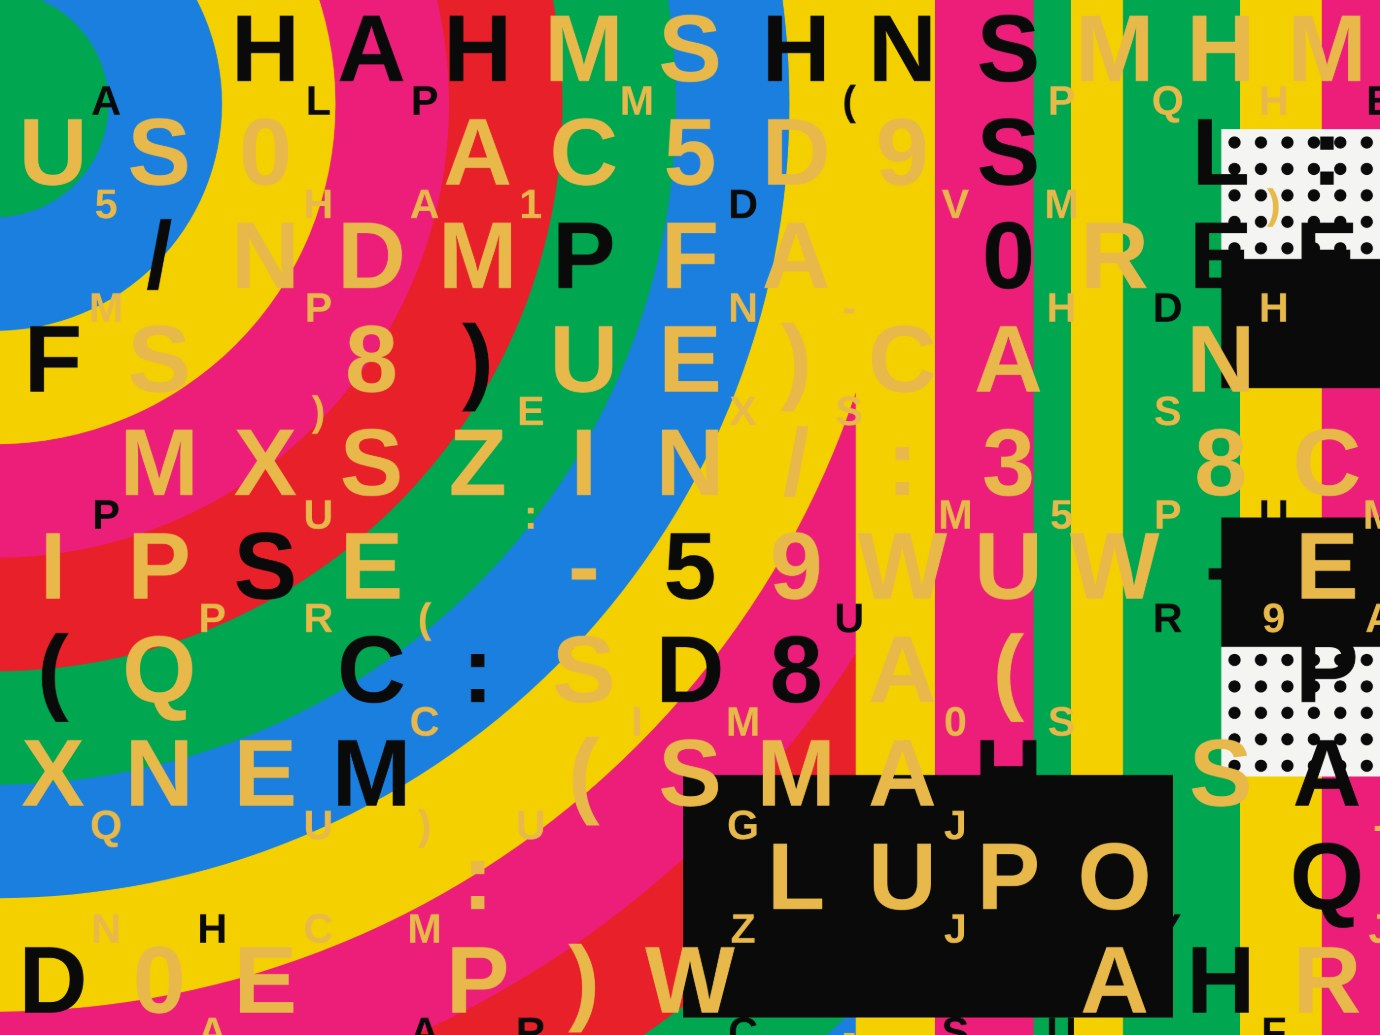
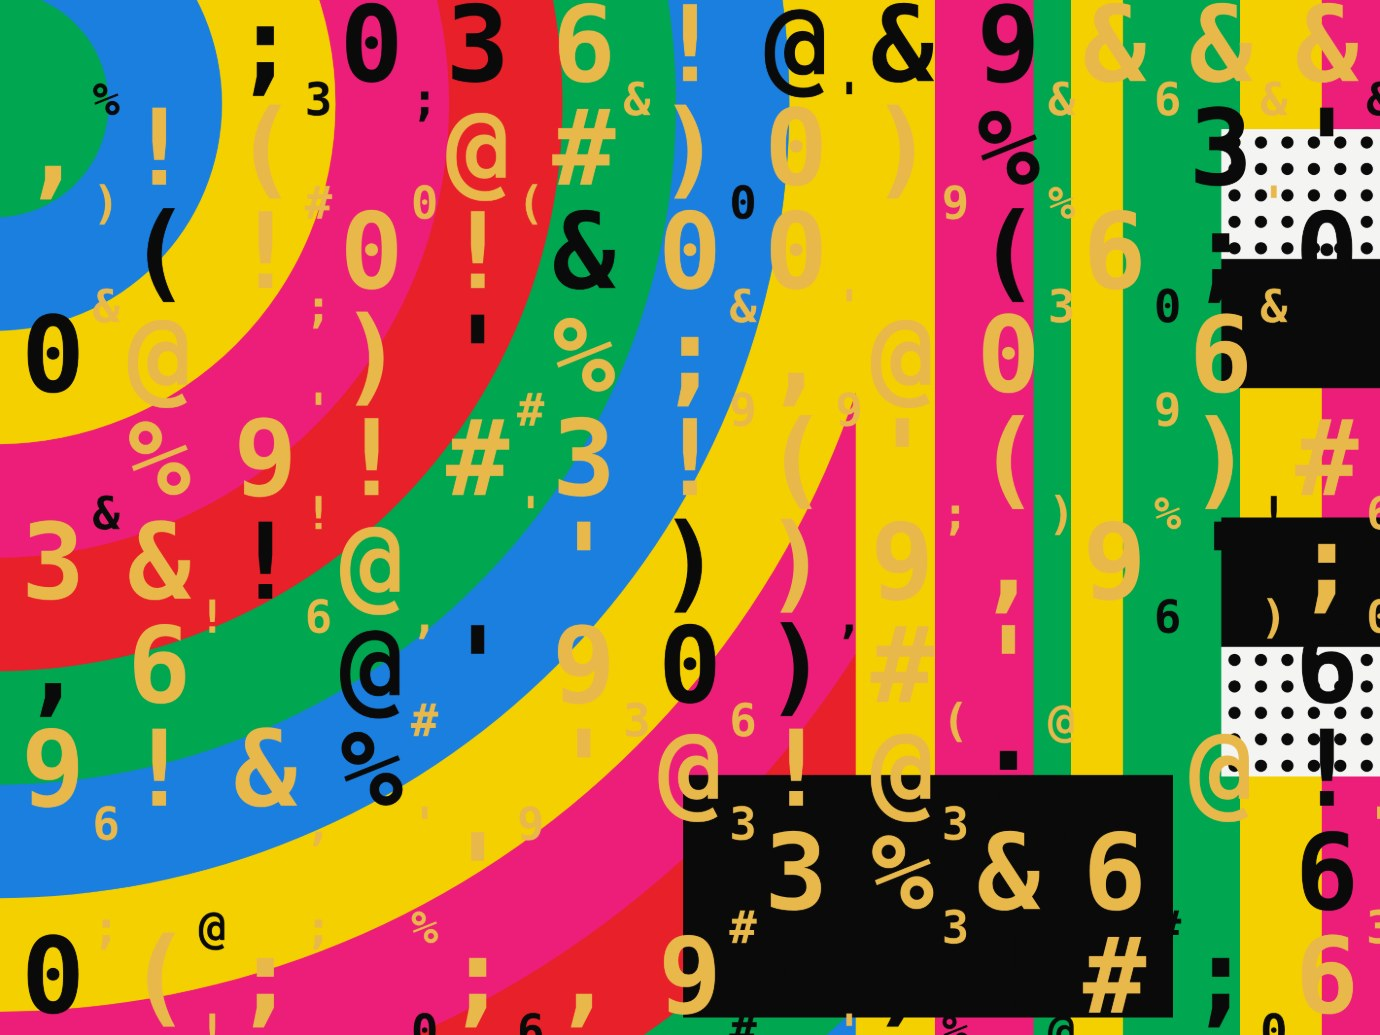
Kiosk: ASCII character sets, as in Atlas
The type layer drops the Latin letters and the gothic face for the
same six character sets and the same monospace stack Atlas uses — DOS,
Stipple, Blocks, Code, Digits, Runes — picked from a chip row in the
same place. Two text tools now speak one vocabulary rather than each
inventing its own.

Bringing Atlas's font stack across reintroduced a bug already fixed
here once: it names a family in double quotes, and written into a
double-quoted SVG attribute that closes the attribute early. It broke
the export for every set, not just the one the test happened to catch
it on, and it broke silently — a malformed SVG still downloads. The
stack now single-quotes its family name, the writer converts any
double quote it is handed, and the test parses the SVG for all six
sets rather than trusting that a file appeared.

All six sets draw distinct pages, all six export a well-formed SVG,
and the vector still matches the canvas to 0.22%.

Claude-Session: https://claude.ai/code/session_01Hb5jk9z6h4o1AzZNFzskh6

diff --git a/kiosk/index.html b/kiosk/index.html
@@ -397,7 +397,8 @@ input[type=range]{accent-color:var(--ink)}
         <div class="pr"><div class="top"><span class="k">Sweep bands</span><span class="v" id="ringsVal">15</span></div><div class="track"><input type="range" id="rings" min="4" max="40" step="1" value="15"></div></div>
         <div class="pr"><div class="top"><span class="k">Stripes</span><span class="v" id="stripesVal">9</span></div><div class="track"><input type="range" id="stripes" min="2" max="24" step="1" value="9"></div></div>
         <div class="note">Split sets how much of the page the sweep keeps before the stripes take over.</div></div></details>
-    <details class="grp" open><summary>Type</summary><div class="grp-b"><div class="pr"><div class="top"><span class="k">Columns</span><span class="v" id="gridVal">13</span></div><div class="track"><input type="range" id="grid" min="4" max="30" step="1" value="13"></div></div>
+    <details class="grp" open><summary>Type</summary><div class="grp-b"><div class="misc stack"><span class="mhead"><span class="k">Character set</span></span><span class="mval"><div class="chips" id="sets"></div></span></div>
+        <div class="pr"><div class="top"><span class="k">Columns</span><span class="v" id="gridVal">13</span></div><div class="track"><input type="range" id="grid" min="4" max="30" step="1" value="13"></div></div>
         <div class="pr"><div class="top"><span class="k">Large</span><span class="v" id="densityVal">84%</span></div><div class="track"><input type="range" id="density" min="0" max="1" step="0.01" value="0.84"></div></div>
         <div class="pr"><div class="top"><span class="k">Small</span><span class="v" id="smallVal">60%</span></div><div class="track"><input type="range" id="small" min="0" max="1" step="0.01" value="0.6"></div></div></div></details>
     <details class="grp" open><summary>Blocks</summary><div class="grp-b"><div class="pr"><div class="top"><span class="k">How many</span><span class="v" id="blocksVal">62%</span></div><div class="track"><input type="range" id="blocks" min="0" max="1" step="0.01" value="0.62"></div></div>
@@ -492,19 +493,27 @@ const RATIOS=[{id:"9:16",w:9,h:16},{id:"3:4",w:3,h:4},{id:"4:5",w:4,h:5},{id:"1:
  {id:"5:4",w:5,h:4},{id:"4:3",w:4,h:3},{id:"3:2",w:3,h:2},{id:"16:9",w:16,h:9}];
 const MODES=[["shuffle","Shuffle"],["bloom","Bloom"]];
 
-/* A bold gothic, centred cell by cell. The face is proportional, not a
-   monospace: the reference sets real letters on a grid, and forcing them to a
-   fixed advance would give a typewriter rather than a fly-poster. */
-/* Single quotes around the family names, not double: the same string is set on
+/* The same monospace stack and the same six character sets Atlas uses, so the
+   two text tools speak one vocabulary rather than each inventing its own. */
+/* Single quotes around the family name, not double. The same string is set on
    the canvas and written into an SVG attribute, and a double quote inside a
-   double-quoted attribute ends it early and takes the whole export with it. */
-const FACE="'Helvetica Neue',Helvetica,Arial,'Liberation Sans',sans-serif";
+   double-quoted attribute closes it early and takes the whole export with it —
+   silently, because a broken SVG still downloads. */
+const MONO="ui-monospace,SFMono-Regular,Menlo,Consolas,'DejaVu Sans Mono',monospace";
+const FACE=MONO;
 
-/* Weighted towards the consonants and brackets the reference leans on, so a
-   page reads like set type rather than like a random dump of the alphabet. */
-const GLYPHS=("ABCDEFGHIJKLMNOPQRSTUVWXYZ"+
-              "ACEHMNPSU"+"ACEHMNPSU"+"ACEHMNPSU"+"ACEHMNPSU"+
-              "()()()-:-:./"+"0123456789").split("");
+const SETS=[
+  ["dos","DOS","0369#%&@!;,'()"],
+  ["stipple","Stipple",".,;:'\"^~*"],
+  ["blocks","Blocks","\u2591\u2592\u2593\u2588\u25a0\u25aa\u00b7"],
+  ["code","Code","/\\|_-+=<>[]{}"],
+  ["digits","Digits","0123456789"],
+  ["runes","Runes","\u2020\u2021\u00a7\u00b6\u00ae\u00a9\u2260\u221e\u2248"]
+];
+function curSetK(){
+  const s=SETS.find(x=>x[0]===S.set)||SETS[0];
+  return s[2];
+}
 
 const PALETTES=[
   ["#0A0A0A","#E8B84B","#F4F4F2","#E8202A","#00A650","#1B7FE0","#F5D000","#EC1E79"],
@@ -515,7 +524,7 @@ const PALETTES=[
 ];
 
 const S={
-  seed:7, ratio:"4:5",
+  seed:7, ratio:"4:5", set:"dos",
   split:0.62, rings:15, stripes:9,
   grid:13, density:0.84, small:0.60,
   blocks:0.62,
@@ -636,18 +645,19 @@ function paint(c,W,H,f){
   c.textAlign="center"; c.textBaseline="middle";
 
   const put=(i,j,gx,gy,sz,salt)=>{
-    const ch=GLYPHS[Math.floor(hshK(i,j,kseed+salt+3)*GLYPHS.length)];
+    const G=curSetK();
+    const ch=G.charAt(Math.floor(hshK(i,j,kseed+salt+3)*G.length));
     c.fillStyle=hshK(i,j,kseed+salt+7)<0.28?R.dark:R.ink;
     c.font="700 "+sz.toFixed(1)+"px "+FACE;
     c.fillText(ch,gx,gy);
   };
   for(let j=0;j<rows;j++) for(let i=0;i<cols;i++){
     if(hshK(i,j,kseed+71)>S.density) continue;
-    put(i,j,(i+0.5)*cw,(j+0.53)*rh,rh*0.92,71);
+    put(i,j,(i+0.5)*cw,(j+0.52)*rh,rh*1.02,71);
   }
   for(let j=0;j<rows;j++) for(let i=0;i<cols;i++){
     if(hshK(i,j,kseed+91)>S.small) continue;
-    put(i,j,(i+1)*cw,(j+1)*rh,rh*0.40,91);
+    put(i,j,(i+1)*cw,(j+1)*rh,rh*0.44,91);
   }
 }
 
@@ -720,8 +730,8 @@ SvgSurfaceK.prototype.fillText=function(t,x,y){
     '" font-size="'+sz.toFixed(1)+'" fill="'+this.fillStyle+'">'+escK(t)+'</text>');
 };
 SvgSurfaceK.prototype.markup=function(){
-  return '<g font-family="'+FACE+'" font-weight="700" text-anchor="middle">'+
-         this._b.join("")+'</g>';
+  return '<g font-family="'+FACE.replace(/"/g,"'")+'" font-weight="700" '+
+         'text-anchor="middle">'+this._b.join("")+'</g>';
 };
 
 function svgFrame(f){
@@ -944,6 +954,7 @@ function bindRange(id,fmt,set,after){
 }
 
 buildRatios();buildSwatches();accent();
+segmented($("#sets"),SETS.map(x=>[x[0],x[1]]),()=>S.set,v=>{S.set=v;reframe();});
 segmented($("#modes"),MODES,()=>S.motion.mode,v=>{S.motion.mode=v;reframe();});
 $("#shufColors").addEventListener("click",()=>{
   setPalette(window.__freshPalette(PALETTES[(Math.random()*PALETTES.length)|0]));
